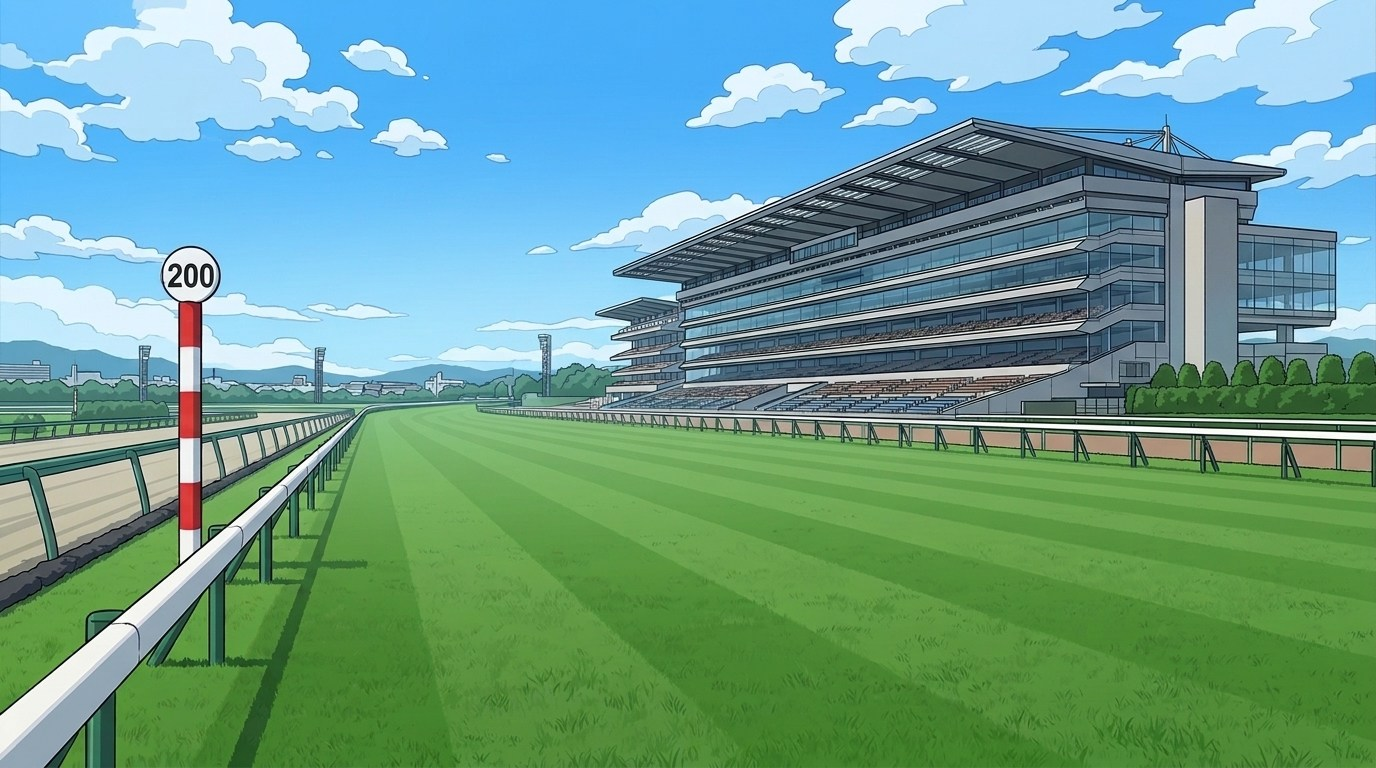
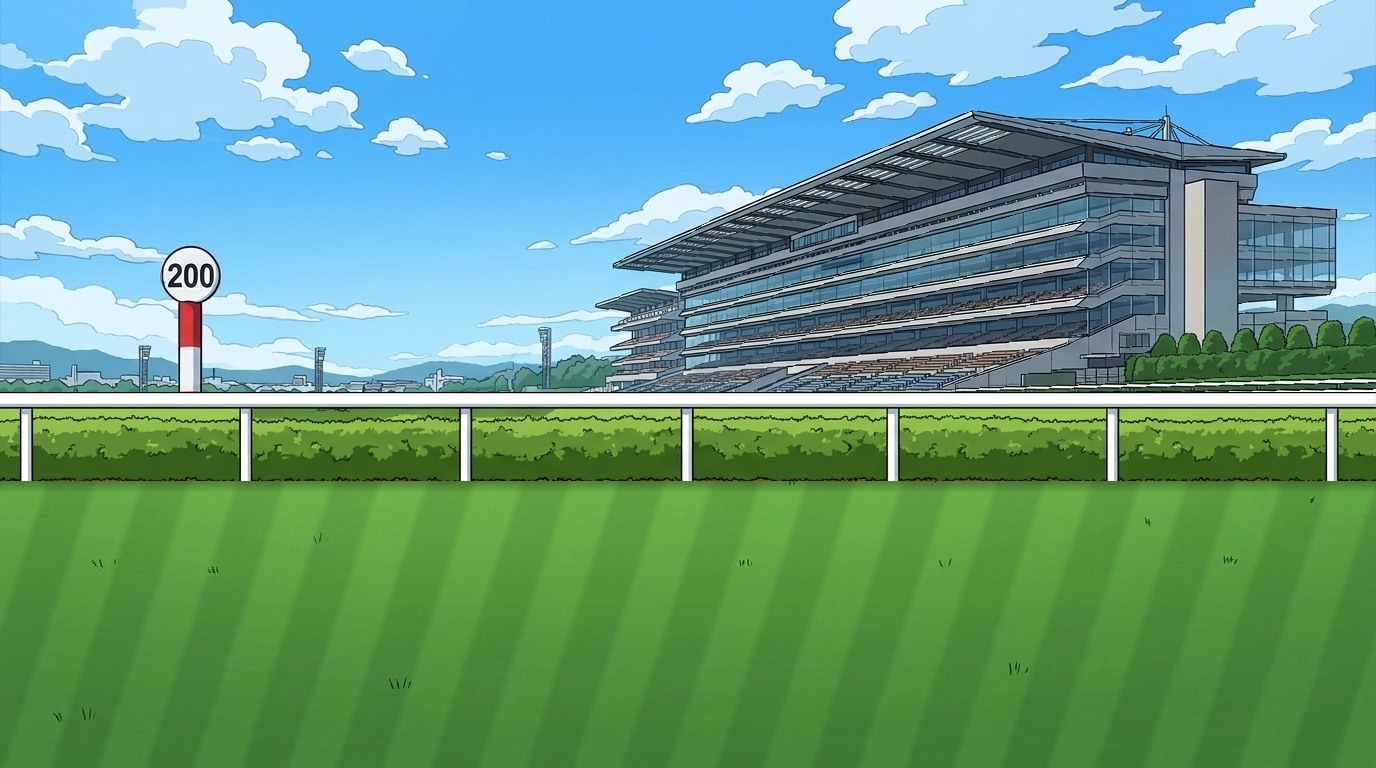
fix(assets): update training and race backgrounds to horizontal left-to-right side-view (#88)
- Update bg_uphill_course.jpg to a side-view uphill track ascending gently from left to right
- Update bg_woodchip_course.jpg to a horizontal side-view woodchip track with white rail and hedge
- Update bg_turf_race.jpg to a horizontal side-view turf racecourse homestretch with 200m post and grandstand
- Update bg_dirt_race.jpg to a horizontal side-view dirt racecourse homestretch with 200m post, goal post, and grandstand
- Update docs/specs/horse-visual-assets.md and docs/CHANGELOG.md

diff --git a/docs/specs/horse-visual-assets.md b/docs/specs/horse-visual-assets.md
@@ -118,9 +118,9 @@
 | # | シーン区分 | ファイル名 | 対応コンポーネント・条件 | 背景テーマ・演出内容 |
 | :-: | :--- | :--- | :--- | :--- |
 | **1** | **シーン① ホーム画面** | `bg_pasture.jpg` | `HorseIllustration` (`standing_left`) | **のどかな牧場**: 白い木製フェンス（ラチ）、広がる緑の放牧地、遠くに見える山並みと青空 |
-| **2-A** | **シーン② 坂路調教** | `bg_uphill_course.jpg` | `HorseSpriteAnimation` (`training_gallop`, `uphill`) | **坂路調教コース**: 緩やかに上る直線走路、両脇の白ラチ、奥へ続く緑の木々や盛り土 |
-| **2-B** | **シーン② ウッドチップ** | `bg_woodchip_course.jpg` | `HorseSpriteAnimation` (`training_gallop`, `woodchip`) | **ウッドチップ調教コース**: 赤褐色のウッドチップ敷き走路、内外の白ラチ、周回コース景観 |
+| **2-A** | **シーン② 坂路調教** | `bg_uphill_course.jpg` | `HorseSpriteAnimation` (`training_gallop`, `uphill`) | **坂路調教コース（横向き・右方向登坂）**: 右向きに走る馬に合わせて左から右へ緩やかに登るサイドビュー走路、水平方向の白ラチ、緑のトレセン林 |
+| **2-B** | **シーン② ウッドチップ** | `bg_woodchip_course.jpg` | `HorseSpriteAnimation` (`training_gallop`, `woodchip`) | **ウッドチップ調教コース（横向き・右方向疾走）**: 右向きに走る馬に合わせて左から右へ真横に伸びる赤褐色ウッドチップ走路、水平の白ラチと生垣 |
 | **3** | **シーン③＆⑤-B 厩舎** | `bg_stable.jpg` | `HorseIllustration` (`training_complete`, `race_cooldown`) | **厩舎（馬房）**: 木の温もりを感じる清潔な馬房、敷き藁、柔らかい光が差し込む空間 |
-| **4-A** | **シーン④ 週末レース（芝）** | `bg_turf_race.jpg` | `HorseSpriteAnimation` (`race_gallop`, `turf` / `jump`) | **芝（ターフ）本馬場**: 鮮やかな本馬場ターフ、白い内ラチ、ハロン棒と遠景のスタンド |
-| **4-B** | **シーン④ 週末レース（ダート）** | `bg_dirt_race.jpg` | `HorseSpriteAnimation` (`race_gallop`, `dirt`) | **ダート本馬場**: 茶褐色のダート本馬場コース、白いラチ、青空とのコントラスト |
+| **4-A** | **シーン④ 週末レース（芝）** | `bg_turf_race.jpg` | `HorseSpriteAnimation` (`race_gallop`, `turf` / `jump`) | **芝（ターフ）本馬場（横向き・右方向直線）**: 右向きに全力疾走する馬に合わせて左から右へ真横に伸びるゼブラカット芝コース、水平の内ラチ・200mハロン棒・遠景スタンド |
+| **4-B** | **シーン④ 週末レース（ダート）** | `bg_dirt_race.jpg` | `HorseSpriteAnimation` (`race_gallop`, `dirt`) | **ダート本馬場（横向き・右方向直線）**: 右向きに全力疾走する馬に合わせて左から右へ真横に伸びる砂ダートコース、水平の内ラチ・200mハロン棒・ゴール板・遠景スタンド |
 | **5-A** | **シーン⑤-A レース勝利** | `bg_winners_circle.jpg` | `HorseIllustration` (`race_victory`) | **ウィナーズサークル**: 栄光のウイナーズサークル、緑の芝生と花壇、優勝ボードとスタンド席 |

diff --git a/docs/CHANGELOG.md b/docs/CHANGELOG.md
@@ -10,7 +10,7 @@
 ### Added
 - **競走馬シーン別背景イラスト素材制作と全6シーンへの背景合成組み込み ([#88](https://github.com/meshi-z/turf-talk/issues/88)):**
   - **シーン別背景イラストアセット（全7枚・1376×768px）の新規制作 (`src/assets/backgrounds/`):**
-    - 牧場パドック（`bg_pasture.jpg`）、坂路調教コース（`bg_uphill_course.jpg`）、ウッドチップ調教コース（`bg_woodchip_course.jpg`）、厩舎・馬房（`bg_stable.jpg`）、芝本馬場（`bg_turf_race.jpg`）、ダート本馬場（`bg_dirt_race.jpg`）、ウィナーズサークル（`bg_winners_circle.jpg`）の7種を制作・配置。
+    - 牧場パドック（`bg_pasture.jpg`）、坂路調教コース（`bg_uphill_course.jpg`：左→右への緩やかな登坂サイドビュー）、ウッドチップ調教コース（`bg_woodchip_course.jpg`：左→右への水平サイドビュー）、厩舎・馬房（`bg_stable.jpg`）、芝本馬場（`bg_turf_race.jpg`：左→右への水平サイドビュー直線）、ダート本馬場（`bg_dirt_race.jpg`：左→右への水平サイドビュー直線）、ウィナーズサークル（`bg_winners_circle.jpg`）の7種を制作・配置。
   - **背景アセット解決・静止画立ち絵のCanvas背景透過ユーティリティ実装 (`src/lib/horseAssets.ts`):**
     - `HORSE_BACKGROUND_FILE_MAP`, `getBackgroundImageUrl`, `resolveStaticSceneBackground`, `resolveGallopSceneBackground` によるシーン・コース・馬場別の背景URL解決を実装。
     - 静止画立ち絵（1376×768px）の白背景を、外周4辺からのフラッドフィルおよび手綱・首間のピンポイント閉領域シード（`STATIC_CLOSED_REGION_SEEDS`）によって白毛（`#F7F9FC`）の馬体を保護しつつ綺麗に透過する `applyStaticSceneFloodFillTransparency` を実装。
